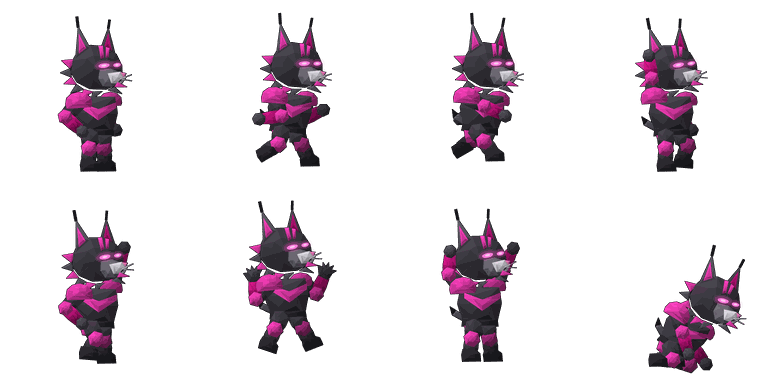
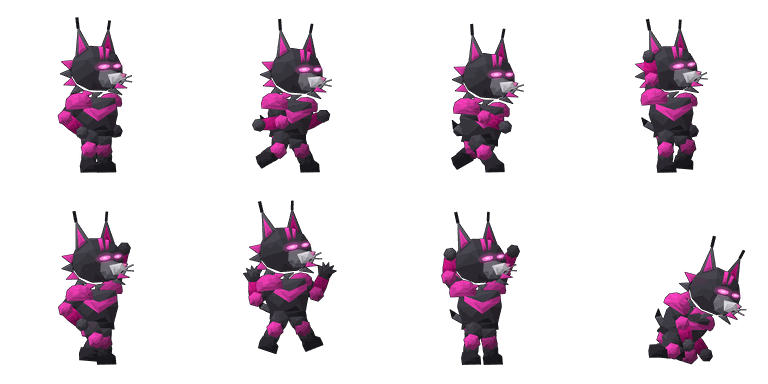
Run cycles: two mirrored strides with the feet on the anchor
Walking alternates poses cells 1 and 2. Nine characters paired a stride with
a legs-together passing pose (Viking, Sentinel, Ibex, Cobra, Badger, Wolf,
Kestrel, Mantis, Yak), so every other step read as a hop; six more
(Lynx, Bison, Heron, Panther, Otter, Raven) had soles up to 11 px above the
anchor because their planted foot aimed out of the leg's reach. Run-b now
mirrors run-a in those rigs, side-view runs pull the hips together so the
mirror is symmetric, the Kestrel/Mantis/Yak runs drop their baked-in lift,
and a shared grounding.py snaps grounded cells onto row 172. Falcon, Marmot,
Gecko and the Wraith are unchanged.

Adds a test that idle and both run frames stand on the anchor (proven red
on the old Bison sheet).

Claude-Session: https://claude.ai/code/session_014iFxSVTxNGWcGcNuMQEfCa

diff --git a/app/tests/game/climberSheetFiles.test.ts b/app/tests/game/climberSheetFiles.test.ts
@@ -107,6 +107,26 @@ function cellDiff(img: { w: number; rgba: Uint8Array }, cell: number, a: number,
  */
 const MIN_CLIMB_FRAME_DIFF_PX = 1000;
 
+/** Lowest row of a cell with a visible pixel (alpha over 40), or -1. */
+function soleRow(img: { w: number; rgba: Uint8Array }, cell: number, index: number, cols: number): number {
+  const x0 = (index % cols) * cell;
+  const y0 = Math.floor(index / cols) * cell;
+  for (let y = cell - 1; y >= 0; y--) {
+    for (let x = 0; x < cell; x++) {
+      if (img.rgba[((y0 + y) * img.w + x0 + x) * 4 + 3] > 40) return y;
+    }
+  }
+  return -1;
+}
+
+/**
+ * Feet on the anchor: the contract pins the point between the feet to row
+ * 172.5 of a 192 cell. A run frame whose feet end above it floats, and the
+ * two-frame walk then hops on every other step (the old Bison ran with its
+ * soles at 167 and 161).
+ */
+const SOLE_ROWS_192 = [170, 175] as const;
+
 describe("shipped climber sheets", () => {
   it("pngSize reads a real sheet and rejects non-PNG bytes", () => {
     expect(pngSize(readFileSync(join(PUBLIC, "climb/wraith-poses-192.png")))).toEqual({ w: 768, h: 384 });
@@ -155,6 +175,22 @@ describe("shipped climber sheets", () => {
             MIN_CLIMB_FRAME_DIFF_PX,
           );
         }
+      }
+      checked++;
+    }
+    expect(checked).toBeGreaterThan(1);
+  });
+
+  it("idle and both run frames stand on the foot anchor", () => {
+    let checked = 0;
+    for (const [id, ch] of Object.entries(CLIMBER_CHARACTERS)) {
+      if (ch.kind !== "sheets") continue;
+      const sheet = decodePng(readFileSync(join(PUBLIC, ch.poses)));
+      const [lo, hi] = SOLE_ROWS_192.map((r) => Math.round((r * ch.cell) / 192));
+      for (const [index, name] of [[0, "idle"], [1, "run-a"], [2, "run-b"]] as const) {
+        const sole = soleRow(sheet, ch.cell, index, 4);
+        expect(sole, `${id} ${name} sole row`).toBeGreaterThanOrEqual(lo);
+        expect(sole, `${id} ${name} sole row`).toBeLessThanOrEqual(hi);
       }
       checked++;
     }

diff --git a/tools/climber-art/cobra-badger-wolf/body.py b/tools/climber-art/cobra-badger-wolf/body.py
@@ -8,10 +8,10 @@ BASE = dict(lean=3, tilt=0, nT=5, nS=0, fT=-5, fS=0, nU=12, nF=28, fU=-10, fF=26
             nFoot=0, fFoot=0, tail=0, grounded=True, hip=0.0, px=0.0, nA=1.0, fA=1.0)
 POSES = {
     'idle': dict(),
-    'run-a': dict(lean=11, tilt=-4, nT=40, nS=-28, fT=-34, fS=-58, nU=-42, nF=62, fU=48, fF=64,
-                  nFoot=8, fFoot=-40, tail=-14),
-    'run-b': dict(lean=11, tilt=-4, nT=-34, nS=-58, fT=40, fS=-28, nU=48, nF=64, fU=-42, fF=62,
-                  nFoot=-40, fFoot=8, tail=10),
+    'run-a': dict(lean=11, tilt=-4, nT=40, nS=-28, fT=-36, fS=-26, nU=-42, nF=62, fU=48, fF=64,
+                  nFoot=8, fFoot=-40, tail=-14, hipw=3),
+    'run-b': dict(lean=11, tilt=-4, nT=-36, nS=-26, fT=40, fS=-28, nU=48, nF=64, fU=-42, fF=62,
+                  nFoot=-40, fFoot=8, tail=10, hipw=3),
     'reach-a': dict(nA=1.3, lean=-2, tilt=-10, nU=172, nF=-6, fU=-6, fF=34, nT=4, nS=0, fT=-14, fS=-30, fFoot=-18, tail=6),
     'reach-b': dict(fA=1.3, lean=-2, tilt=-10, nU=-8, nF=34, fU=-168, fF=8, nT=16, nS=-34, fT=-4, fS=0, nFoot=-12, tail=-6),
     'falling': dict(lean=0, tilt=-6, nU=112, nF=26, fU=-114, fF=-26, nT=44, nS=-18, fT=-44, fS=-14,
@@ -141,7 +141,9 @@ def build(ch, p, back=False, climb=None):
 
     if not back:
         shN = pelvis((40 * b, -TL + 14)); shF = pelvis((-46 * b, -TL + 16))
-        hipN = (pelvis.o[0] + 16, hipY); hipF = (pelvis.o[0] - 18, hipY)
+        hw = p.get('hipw')  # runs pull the hips in: a side view has no hip width
+        hipN = (pelvis.o[0] + (16 if hw is None else hw), hipY)
+        hipF = (pelvis.o[0] - (18 if hw is None else hw), hipY)
         arms = [(shN, p['nU'], p['nF'], True, 70, p['nA']), (shF, p['fU'], p['fF'], False, 10, p['fA'])]
         legs = [(hipN, p['nT'], p['nS'], p['nFoot'], True, 40, 1.0, 1.0),
                 (hipF, p['fT'], p['fS'], p['fFoot'], False, 14, 1.0, 1.0)]

diff --git a/tools/climber-art/viking-sentinel-ibex/rig.py b/tools/climber-art/viking-sentinel-ibex/rig.py
@@ -158,8 +158,9 @@ def skeleton(pose, back=False):
     sw = DIM["shoulder"]
     J["shL"] = add(add(N, sc(side, -sw)), sc(up, -14))
     J["shR"] = add(add(N, sc(side, sw)), sc(up, -14))
-    J["hipL"] = add(P, sc(side, -DIM["hip"]))
-    J["hipR"] = add(P, sc(side, DIM["hip"]))
+    hw = pose.get("hip", DIM["hip"])  # runs pull the hips in: a side view has no hip width
+    J["hipL"] = add(P, sc(side, -hw))
+    J["hipR"] = add(P, sc(side, hw))
     for s in "LR":
         ua, fa = pose["arm" + s]
         st = pose.get("stretch" + s, 1.0)  # chibi arms stretch when thrown overhead
@@ -305,10 +306,12 @@ class Char:
 
 POSES = [
     dict(name="idle", armL=(-18, -8), armR=(18, 10), legL=(-8, -3), legR=(8, 3), lean=0),
-    dict(name="run-a", armL=(-40, -15), armR=(55, 110), legL=(-38, 5), legR=(40, -10),
-         lean=9, footL=-25, footR=10, px=-4),
-    dict(name="run-b", armL=(35, 100), armR=(-35, -10), legL=(38, -10), legR=(-50, -95),
-         lean=9, footL=10, footR=-40, px=-4),
+    dict(name="run-a", armL=(-40, -15), armR=(55, 110), legL=(-44, -26), legR=(44, 2),
+         lean=9, footL=-30, footR=10, px=-4, hip=0),
+    # run-b mirrors run-a (legs and arms swapped), so the two-frame walk reads
+    # as a stride on each foot rather than a stride and a hop
+    dict(name="run-b", armL=(55, 110), armR=(-40, -15), legL=(44, 2), legR=(-44, -26),
+         lean=9, footL=10, footR=-30, px=-4, hip=0),
     dict(name="reach-a", armL=(-150, -178), armR=(22, 12), stretchL=1.45, legL=(-10, -4), legR=(10, 5), lean=-2, head=-8),
     dict(name="reach-b", armL=(-20, -10), armR=(150, 178), stretchR=1.45, legL=(-10, -4), legR=(10, 5), lean=2, head=-8),
     dict(name="falling", armL=(-115, -140), armR=(115, 140), legL=(-35, -20), legR=(35, 20),

diff --git a/tools/climber-art/grounding.py b/tools/climber-art/grounding.py
@@ -1,0 +1,34 @@
+"""Put a grounded pose's feet on the foot anchor, shared by the climber rigs.
+
+The contract (app/public/climb/README.md) pins the point between the feet to
+(96, 172.5) of the 192 cell, so a standing or running figure's soles sit on
+row 172, like the Wraith's. Some rigs aim a planted foot at a target the leg
+cannot reach, so the figure floats a few pixels up in some frames; in the
+two-frame walk that reads as a hop on every other step. snap() moves a
+finished 192 cell so its lowest opaque row is row 172.
+"""
+
+from __future__ import annotations
+
+import numpy as np
+from PIL import Image
+
+SOLE_ROW = 172  # lowest opaque row of a grounded 192 cell (the Wraith's)
+ALPHA = 40
+
+
+def snap(cell: Image.Image, sole_row: int = SOLE_ROW) -> Image.Image:
+    """Shift a grounded cell vertically so its lowest opaque row is sole_row."""
+    a = np.array(cell.getchannel("A"))
+    rows = np.where(a.max(1) > ALPHA)[0]
+    if len(rows) == 0:
+        return cell
+    dy = sole_row - int(rows[-1])
+    if dy == 0:
+        return cell
+    out = Image.new("RGBA", cell.size, (0, 0, 0, 0))
+    if dy > 0:
+        out.alpha_composite(cell.crop((0, 0, cell.width, cell.height - dy)), (0, dy))
+    else:
+        out.alpha_composite(cell.crop((0, -dy, cell.width, cell.height)), (0, 0))
+    return out

diff --git a/scripts/climber-art/rig.py b/scripts/climber-art/rig.py
@@ -21,6 +21,7 @@ from typing import Callable
 from PIL import Image, ImageChops, ImageDraw, ImageFilter
 
 import climb_cycle
+import grounding
 
 PACK = 512
 SS = 3  # render pixels per pack pixel
@@ -424,6 +425,9 @@ def draw(ch: Character, pose: Pose, view: str, seed: int) -> Image.Image:
 GROUND = 440  # ankle height of a planted foot (boot sole reaches ~460)
 
 
+AIRBORNE = 5  # the falling cell hangs from the anchor instead
+
+
 def poses_for(b: Body) -> list[Pose]:
     """Idle, Run A, Run B, Reach A, Reach B, Falling, Celebrate, Down."""
     py = 352
@@ -464,7 +468,10 @@ def climb_for(b: Body) -> list[Pose]:
 def render(ch: Character) -> tuple[Image.Image, Image.Image]:
     poses = Image.new("RGBA", (OUT * 4, OUT * 2), (0, 0, 0, 0))
     for i, p in enumerate(poses_for(ch.body)):
-        poses.alpha_composite(draw(ch, p, "side", 7), ((i % 4) * OUT, (i // 4) * OUT))
+        cell = draw(ch, p, "side", 7)
+        if i != AIRBORNE:  # planted feet on the anchor (some run targets are out of reach)
+            cell = grounding.snap(cell)
+        poses.alpha_composite(cell, ((i % 4) * OUT, (i // 4) * OUT))
     climb = Image.new("RGBA", (OUT * 6, OUT), (0, 0, 0, 0))
     for i, p in enumerate(climb_for(ch.body)):
         climb.alpha_composite(draw(ch, p, "back", 11), (i * OUT, 0))

diff --git a/scripts/climber-art/kestrel-mantis-yak/climber.py b/scripts/climber-art/kestrel-mantis-yak/climber.py
@@ -19,8 +19,9 @@ FAR = 0.7  # colour multiplier for the far arm and leg (depth)
 # celebrate, down. arms: (shoulder, elbow); legs: (hip, knee, foot).
 POSES = [
     dict(name="idle", torso=3, head=0, nA=(14, 24), fA=(-12, 22), nL=(10, 6, 0), fL=(-9, 6, 0)),
-    dict(name="run-a", torso=11, head=-4, nA=(-48, 55), fA=(52, 75), nL=(40, 28, -8), fL=(-38, 78, 34), lift=6),
-    dict(name="run-b", torso=11, head=-4, nA=(55, 75), fA=(-44, 55), nL=(-38, 78, 34), fL=(40, 28, -8), lift=6),
+    # Two mirrored strides, both feet down: the engine adds the bob between them
+    dict(name="run-a", torso=11, head=-4, nA=(-48, 55), fA=(52, 75), nL=(40, 28, -8), fL=(-40, 36, 30)),
+    dict(name="run-b", torso=11, head=-4, nA=(55, 75), fA=(-44, 55), nL=(-40, 36, 30), fL=(40, 28, -8)),
     dict(name="reach-a", torso=-2, head=-10, nA=(104, 58), fA=(14, 26), nL=(4, 4, 0), fL=(28, 62, 4)),
     dict(name="reach-b", torso=-2, head=-10, nA=(12, 26), fA=(-104, -58), nL=(28, 62, 4), fL=(-4, 4, 0)),
     dict(name="falling", torso=-6, head=-12, nA=(118, -20), fA=(-116, 20), nL=(34, 36, -14), fL=(-26, 40, 18), lift=10),

diff --git a/tools/climber-art/render.py b/tools/climber-art/render.py
@@ -20,6 +20,7 @@ from PIL import Image
 
 sys.path.insert(0, os.path.dirname(__file__))
 
+import grounding  # noqa: E402
 from characters import CHARACTERS, CLIMB_FRAMES, POSE_NAMES, POSES  # noqa: E402
 from lowpoly import ANCHOR, CELL, OUT, SS, pack, quantize, to_cell  # noqa: E402
 from rig import back, front  # noqa: E402
@@ -69,7 +70,9 @@ def main() -> None:
             if min(x0, y0, CELL - x1, CELL - y1) < GUTTER:
                 print(f"  ! {ch.id} {name}: bounds {x0:.0f},{y0:.0f}-{x1:.0f},{y1:.0f} break the {GUTTER}px gutter")
         h = ANCHOR[1] - top_of(big_poses[0])
-        poses = quantize(pack([to_cell(im) for im in big_poses], 4))
+        # planted feet on the anchor; the falling cell hangs from it instead
+        cells = [to_cell(im) if name == "falling" else grounding.snap(to_cell(im)) for name, im in zip(POSE_NAMES, big_poses)]
+        poses = quantize(pack(cells, 4))
         climb = quantize(pack([to_cell(im) for im in big_climb], 6))
         pp = os.path.join(args.out, f"{ch.id}-poses-{OUT}.png")
         cp = os.path.join(args.out, f"{ch.id}-climb-{OUT}.png")

diff --git a/scripts/climber-art/grounding.py b/scripts/climber-art/grounding.py
@@ -1,0 +1,1 @@
+../../tools/climber-art/grounding.py

diff --git a/app/public/climb/README.md b/app/public/climb/README.md
@@ -29,6 +29,13 @@ Poses cells, left to right, top row first:
 | 6 | celebrate | finished / reached the summit |
 | 7 | down | eliminated by the lava |
 
+Walking alternates cells 1 and 2 only, so make them two mirrored strides:
+one foot forward and one back in run-a, swapped in run-b, soles on the anchor
+in both. A stride paired with a legs-together passing pose reads as a hop on
+every other step, and a frame whose feet end above the anchor floats (the
+engine already adds the bob). `grounding.py` in `tools/climber-art/` snaps a
+rig's grounded cells onto the anchor.
+
 The climb strip is a back view, 6 frames that loop while the character goes up
 a ladder. Without it, climbing alternates cells 3 and 4.
 
